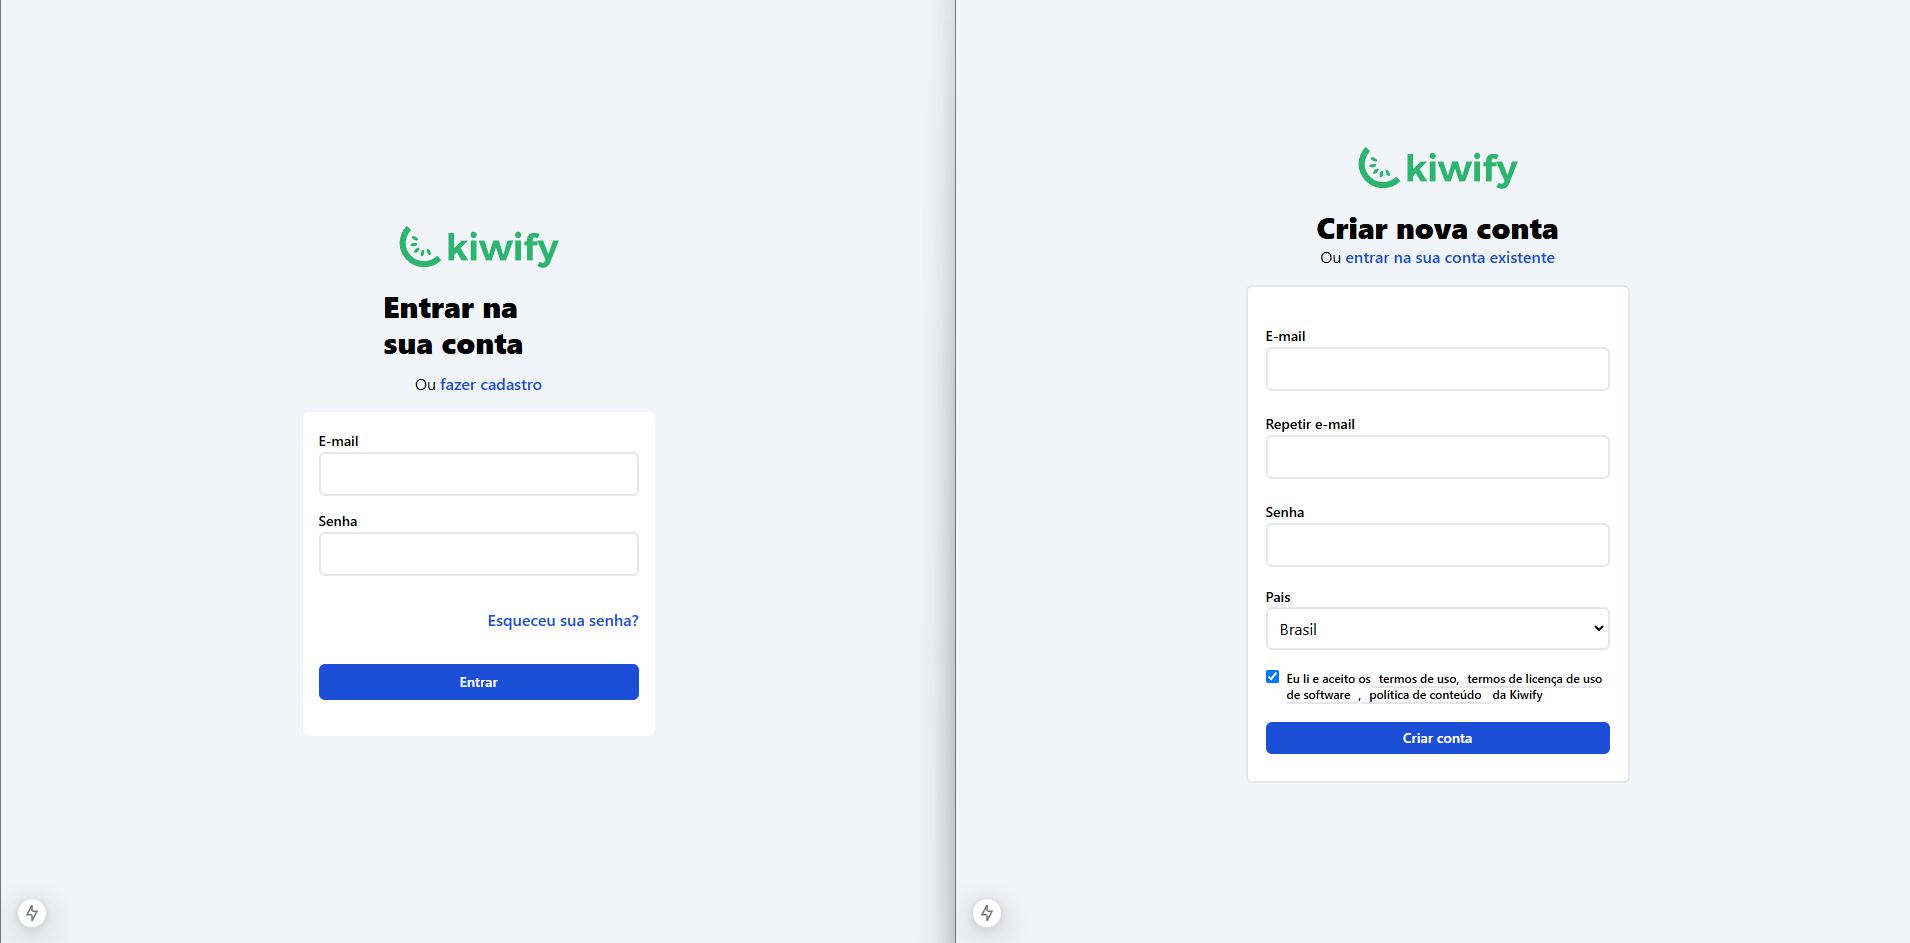
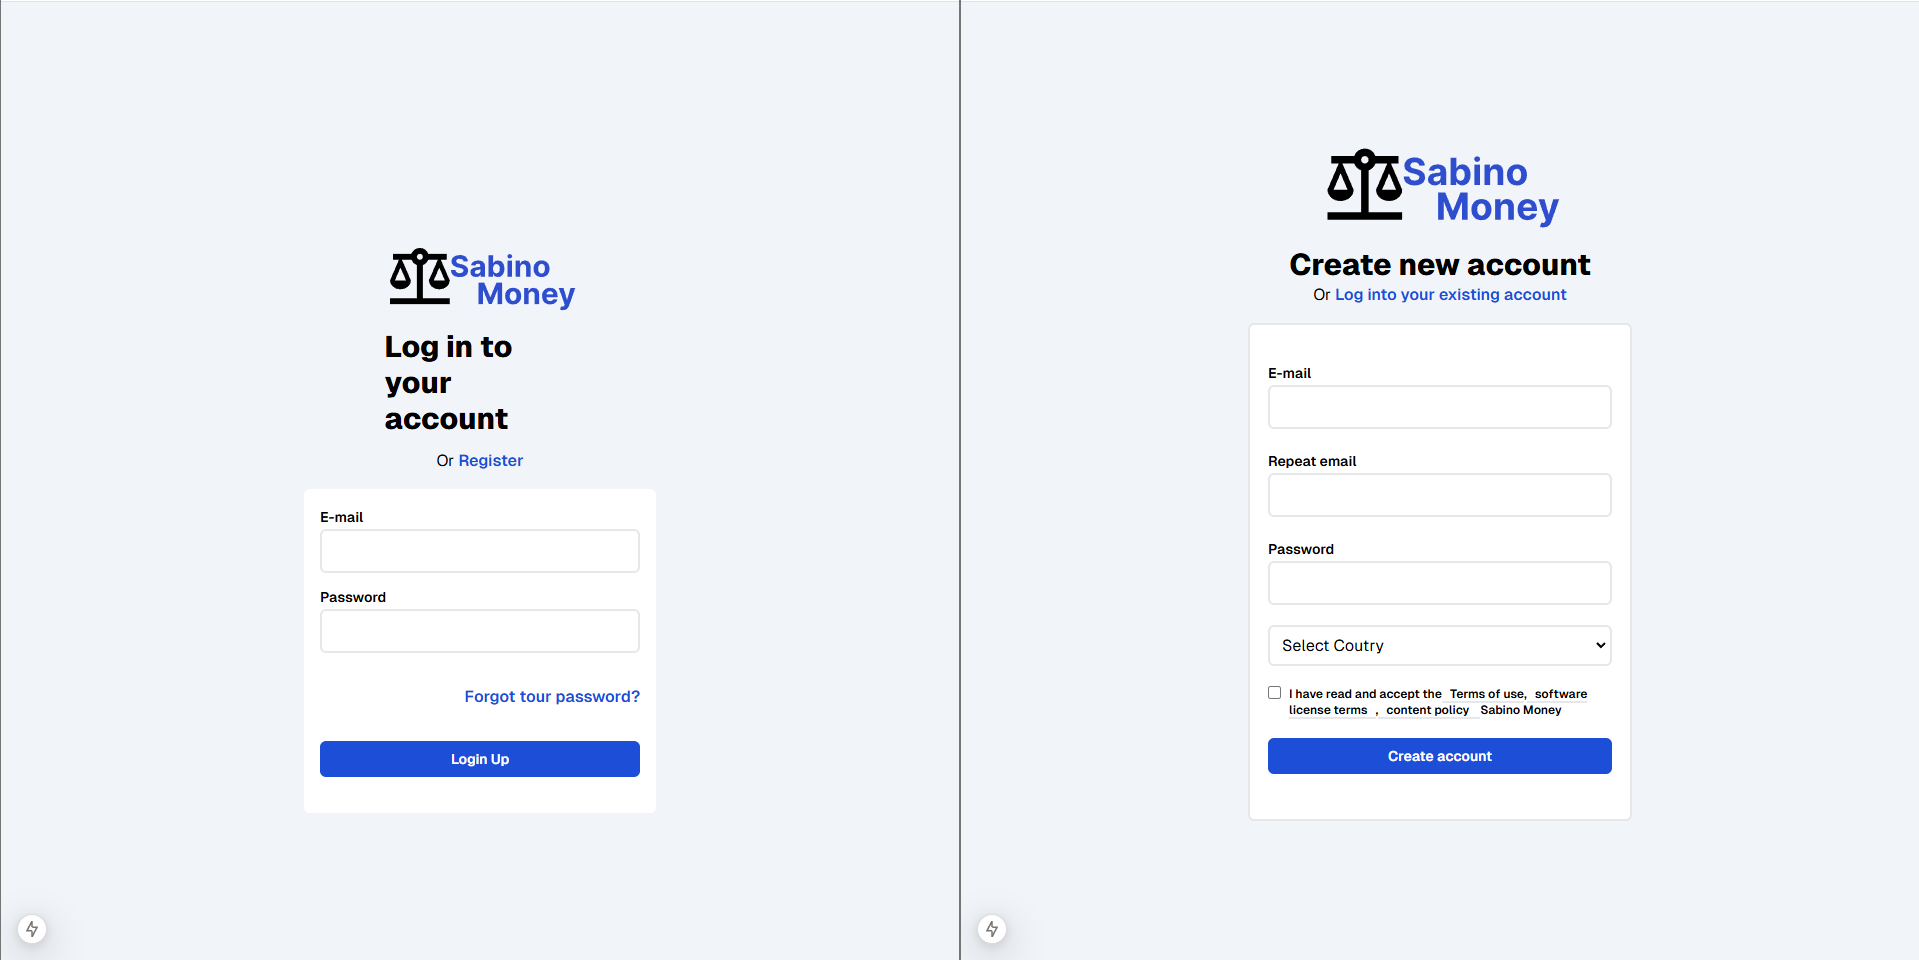
updated

diff --git a/src/app/login/page.tsx b/src/app/login/page.tsx
@@ -1,4 +1,6 @@
 'use client'
+
+import { motion } from "motion/react";
 import Link from "next/link";
 import { useState } from "react";
 
@@ -10,15 +12,15 @@ export default function Login() {
   const [textEmail, setTextEmail] = useState("hidden")
   const [textPassword, setTextPassword] = useState("hidden")
 
-  const [btnEntrar, setBtnEntrar] = useState("bg-blue-700")
+  const [btnEnter, setBtnEnter] = useState("bg-blue-700")
   const [container, setContainer] = useState("bg-slate-100")
 
-  function handleEntrar(e: any){
+  function handleEnter(e: any){
     e.preventDefault()
 
     if(email === ""){
       setTextEmail("block")
-      setBtnEntrar("bg-red-600")
+      setBtnEnter("bg-red-600")
       setContainer("bg-red-400")
       alert("Please fill in the E-mail")
       return 
@@ -26,39 +28,61 @@ export default function Login() {
 
     if(password === ""){
       setTextPassword("block")
-      setBtnEntrar("bg-red-600")
+      setBtnEnter("bg-red-600")
       setContainer("bg-red-400")
-      return alert("Por favor preencher o Password")
+      return alert("Please fill in the Password")
     }
 
     setTextEmail("hidden")
     setContainer("bg-slate-100")
-    setBtnEntrar("bg-blue-700")
+    setBtnEnter("bg-blue-700")
     setTextPassword("hidden")
   
-    alert("bem vindo")
+    alert("Welcome")
   }
 
   return (
     <div className={` ${container} w-screen h-screen flex items-center justify-center `}>
       
       <div className="w-1/5 h-1/2  flex flex-col items-center gap-4 ">
-       
+
+        <motion.div
+          initial={{ y: -200, opacity: 0 }}
+          whileInView={{ y: 0, opacity: 1 }}
+          exit={{ opacity: 0, scale: 0 }}
+          transition={{ duration: 1.9 }}
+        >
         <img src="./image/logo2.svg" alt="Logo Kiwify" className="w-60" />
+        </motion.div>
 
         <div className="flex flex-col items-center">
-          <h2 className="text-3xl font-extrabold mb:mb-0 mb-3">Entrar na sua conta</h2>
 
-          <div className="flex gap-1">
+          <motion.div
+            initial={{ scale: 0, opacity: 0 }}
+            whileInView={{ scale: 1, opacity: 1 }}
+            exit={{ opacity: 0, scale: 0 }}
+            transition={{ duration: 1.9 }}
+          >
+          <h2 className="text-3xl font-extrabold mb:mb-0 mb-3">Log in to your account</h2>
+          
+          <div className="flex gap-1 justify-center">
 
-            <h1>Ou</h1>
+            <h1>Or</h1>
             <Link href="/create-user">
-              <p className="text-blue-700 font-semibold cursor-pointer">fazer cadastro</p>
+              <p className="text-blue-700 font-semibold cursor-pointer">Register</p>
             </Link>
 
           </div>
+          </motion.div>
+
         </div>
 
+        <motion.div
+          initial={{ y: 200, opacity: 0 }}
+          whileInView={{ y: 0, opacity: 1 }}
+          exit={{ opacity: 0, scale: 0 }}
+          transition={{ duration: 1.9 }}
+          >
         <div className="bg-white rounded-md h-auto flex flex-col items-center gap-4">
 
           <form className=" flex gap-3 flex-col w-80 m-4">
@@ -68,29 +92,28 @@ export default function Login() {
               <input 
                 onChange={ event => setEmail( event.target.value)} value={email}
                 type="email" name="email" className="w-80  border-2 p-2 rounded-md" />
-              <p className={`text-red-500 ${textEmail}`}>Por favor preencher o campo E-mail</p>
+              <p className={`text-red-500 ${textEmail}`}>Please fill in the email field</p>
             </div>
 
             <div>
-              <label htmlFor="password" className="text-sm font-semibold">Senha</label>
+              <label htmlFor="password" className="text-sm font-semibold">Password</label>
               <input 
                 onChange={ event => setPassword(event.target.value)} value={password}
                 type="password" name="password" className="w-80 p-2 border-2 rounded-md" />
-              <p className={`text-red-500 ${textPassword}`} >Por favor preencher o campo Password</p>
+              <p className={`text-red-500 ${textPassword}`} >Plaese fill in the password field</p>
             </div>
 
             <Link href="/forgot">
-              <p className="text-right mt-5 mb-5 text-blue-700 font-semibold cursor-pointer">Esqueceu sua senha?</p>
+              <p className="text-right mt-5 mb-5 text-blue-700 font-semibold cursor-pointer">Forgot tour password?</p>
             </Link>
           
-            <button onClick={handleEntrar} className={` ${btnEntrar} w-80 mb-5 p-2 text-white text-sm rounded-md font-semibold cursor-pointer `}>Entrar</button>
+            <button onClick={handleEnter} className={` ${btnEnter} w-80 mb-5 p-2 text-white text-sm rounded-md font-semibold cursor-pointer `}>Login Up</button>
                       
           </form>
-
         </div>
+        </motion.div>
 
       </div>
-
     </div>
   );
 }

diff --git a/src/app/create-user/page.tsx b/src/app/create-user/page.tsx
@@ -7,13 +7,13 @@ export default function Create() {
                 <img src="./image/logo2.svg" alt="Logo Kiwify" className="w-60" />
 
                 <div className="flex flex-col items-center">
-                    <h2 className="text-3xl font-extrabold">Criar nova conta</h2>
+                    <h2 className="text-3xl font-extrabold">Create new account</h2>
 
                     <div className="flex gap-1">
 
-                        <h1>Ou</h1>
+                        <h1>Or</h1>
                         <Link href="/">
-                            <p className="text-blue-700 font-semibold cursor-pointer">entrar na sua conta existente</p>
+                            <p className="text-blue-700 font-semibold cursor-pointer">Log into your existing account</p>
                         </Link>
 
                     </div>
@@ -29,19 +29,20 @@ export default function Create() {
                         </div>
 
                         <div className="row">
-                            <label htmlFor="email" className="text-sm font-semibold">Repetir e-mail</label>
+                            <label htmlFor="email" className="text-sm font-semibold">Repeat email</label>
                             <input type="email" name="email" className="w-full border-2 rounded-md mb-3 p-2 outline-none" />
                         </div>
 
                         <div className="row">
-                            <label htmlFor="password" className="text-sm font-semibold">Senha</label>
+                            <label htmlFor="password" className="text-sm font-semibold">Password</label>
                             <input type="password" name="password" className="w-full border-2 rounded-md mb-3 p-2" />
                         </div>
 
                         <div className="flex flex-col">
-                            <label htmlFor="password" className="text-sm font-semibold">Pais</label>
+                            <label htmlFor="password" className="text-sm font-semibold"></label>
 
                             <select className="border-2 p-2 rounded-md mb-3">
+                                <option>Select Coutry</option>
                                 <option>Brasil</option>
                                 <option>Estados Unidos</option>
                                 <option>Japão</option>
@@ -50,14 +51,14 @@ export default function Create() {
 
                         <div className="flex gap-2 items-start justify-center">
                             <input className="" type="checkbox" />
-                            <label className="text-xs mb-3 font-semibold"> Eu li e aceito os
-                                <Link href="https://kiwify.com.br/termos-de-uso/" className="border-b-2 pl-2">termos de uso</Link>,
-                                <Link href="https://kiwify.com.br/licenca-de-uso-software/" className="border-b-2 pr-2 pl-2">termos de licença de uso de software</Link>,
-                                <Link href="https://kiwify.com.br/politica-de-conteudo/" className="border-b-2 pr-2 pl-2">política de conteúdo</Link> da Kiwify
+                            <label className="text-xs mb-3 font-semibold"> I have read and accept the
+                                <Link href="https://kiwify.com.br/termos-de-uso/" className="border-b-2 pl-2">Terms of use</Link>,
+                                <Link href="https://kiwify.com.br/licenca-de-uso-software/" className="border-b-2 pr-2 pl-2">software license terms</Link>,
+                                <Link href="https://kiwify.com.br/politica-de-conteudo/" className="border-b-2 pr-2 pl-2">content policy </Link> Sabino Money
                             </label>
                         </div>
                             <button className="bg-blue-700 w-full p-2 text-white text-sm rounded-md font-semibold cursor-pointer">
-                                Criar conta
+                                Create account
                             </button>
                     </form>
                 </div>

diff --git a/src/app/forgot/page.tsx b/src/app/forgot/page.tsx
@@ -1,7 +1,7 @@
 "use client"
 import { useState } from "react";
 
-export default function Forgot() {
+export default function ForgotBackup() {
 
   const [email, setEmail] = useState("")
   const [textEmail, setTextEmail] = useState("hidden")
@@ -15,7 +15,7 @@ export default function Forgot() {
       setTextEmail("block")
       setBtnReset("bg-red-600")
       setContainer("bg-red-400")
-      alert("por favor preencher o campo email")
+      alert("please fill in the E-mail")
       return
     }
 
@@ -31,8 +31,8 @@ export default function Forgot() {
         <img src="./image/logo2.svg" alt="Logo Kiwify" className="w-60" />
 
         <div className="flex flex-col  items-center justify-center">
-          <h2 className="text-3xl font-extrabold mb-1">Redefinir a senha</h2>
-          <h1 className="text-center py-5">Você receberá um e-mail com instruções para redefinir a senha</h1>
+          <h2 className="text-3xl font-extrabold mb-1">Reset password</h2>
+          <h1 className="text-center py-5">you will receive an email with instructions to reset your password</h1>
         </div>
         <div className={` ${container} rounded-md h-auto flex flex-col items-center border-2 `}>
           <form className=" flex flex-col w-80 m-4 gap-1">
@@ -40,9 +40,9 @@ export default function Forgot() {
             <input
               onChange={event => setEmail(event.target.value)} value={email}
               type="email" name="email" className="w-80 border-2 p-2 rounded-md" />
-            <p className={`text-white ${textEmail}`}>por favor preencher o campo email</p>
+            <p className={`text-white ${textEmail}`}>please fill in the E-mail</p>
           </form>
-          <button onClick={handleReset} className={` ${btnReset} w-80 mb-3 p-2 text-white text-sm rounded-md font-semibold cursor-pointer`}>Redefinir senha</button>
+          <button onClick={handleReset} className={` ${btnReset} w-80 mb-3 p-2 text-white text-sm rounded-md font-semibold cursor-pointer`}>Reset password</button>
         </div>
       </div>
     </div>

diff --git a/src/app/forgot/page1.tsx b/src/app/forgot/page1.tsx
@@ -1,0 +1,24 @@
+
+export default function Forgot() {
+  return (
+    <div className="bg-slate-100 w-screen h-screen flex items-center justify-center">
+      <div className="w-1/5 h-1/2 flex flex-col items-center gap-4">
+        <img src="./image/logo2.svg" alt="Logo Kiwify" className="w-60" />
+
+        <div className="flex flex-col  items-center justify-center">
+          <h2 className="text-3xl font-extrabold mb-1">Redefinir a senha</h2>
+          <h1 className="text-center py-5">Você receberá um e-mail com instruções para redefinir a senha</h1>
+        </div>
+        <div className=" rounded-md h-auto flex flex-col items-center border-2 ">
+          <form className=" flex flex-col w-80 m-4 gap-1">
+            <label htmlFor="email" className="text-sm font-semibold">E-mail</label>
+            <input
+              type="email" name="email" className="w-80 border-2 p-2 rounded-md" />
+            <p className="text-white ">por favor preencher o campo email</p>
+          </form>
+          <button className="w-80 bg-blue-700 mb-3 p-2 text-white text-sm rounded-md font-semibold cursor-pointer">Redefinir senha</button>
+        </div>
+      </div>
+    </div>
+  );
+}

diff --git a/roteiro.config.md b/roteiro.config.md
@@ -1,0 +1,57 @@
+#### Interfaces System
+
+
+* Postgres Online
+``` 
+https://neon.tech/?gad_source=1&gclid=Cj0KCQiAwtu9BhC8ARIsAI9JHanHJoKHdQjwBbbwJu2XbuKH_-2bVUMbR7pNkf-UCmNoPZ0uay4RGVkaAtHOEALw_wcB
+```
+
+#### data aos animação
+
+* 1. instalar a dependencia
+
+* 2. instalar tipagens
+
+* 3. arquivo de configuração
+
+* 4. importar no layout
+
+#### animação motion
+
+* 1. instalar dependencias
+npm install motion
+
+* 2. usar
+
+* 3. modelo
+ ```
+    <motion.div
+        initial={{ opacity: 0, scale: 0 }}
+        whileInView={{ opacity: 1, scale: 1.1 }}
+        exit={{ opacity: 0, scale: 0 }}
+        transition={{ duration: 1.9 }}
+      >
+    </motion.div>
+ ```
+
+#### Prisma ORM
+
+```  
+npm install prisma@6.2.1
+```
+
+```
+npm install @prisma/client@6.2.1
+```
+
+```
+npx prisma init
+```
+
+```
+npx prisma format
+```
+
+```
+npx prisma migrate dev
+```

diff --git a/README.md b/README.md
@@ -1,30 +1,9 @@
-#### Interfaces System
+#### Projeto NextJS.
+    * Postgres
+    * Typescript
+    * Tailwind CSS
+    * Motion Animação
+    * React Hooks
+
 
 <img src="./screens/page1.png" alt="">
-
-* Postgres Online
-``` 
-https://neon.tech/?gad_source=1&gclid=Cj0KCQiAwtu9BhC8ARIsAI9JHanHJoKHdQjwBbbwJu2XbuKH_-2bVUMbR7pNkf-UCmNoPZ0uay4RGVkaAtHOEALw_wcB
-```
-
-#### Prisma ORM
-
-```  
-npm install prisma@6.2.1
-```
-
-```
-npm install @prisma/client@6.2.1
-```
-
-```
-npx prisma init
-```
-
-```
-npx prisma format
-```
-
-```
-npx prisma migrate dev
-```
